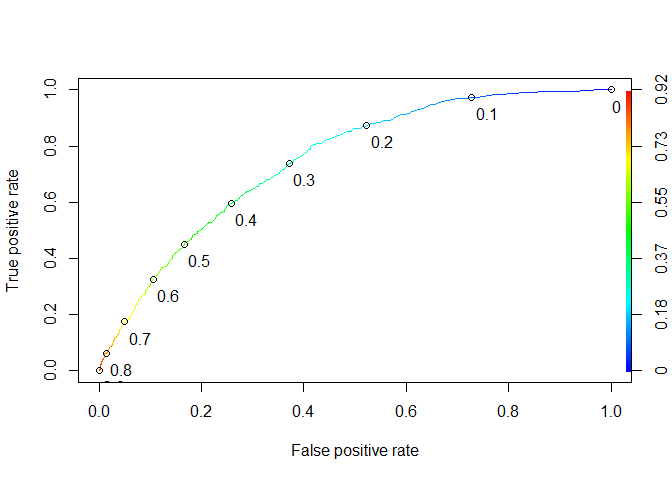
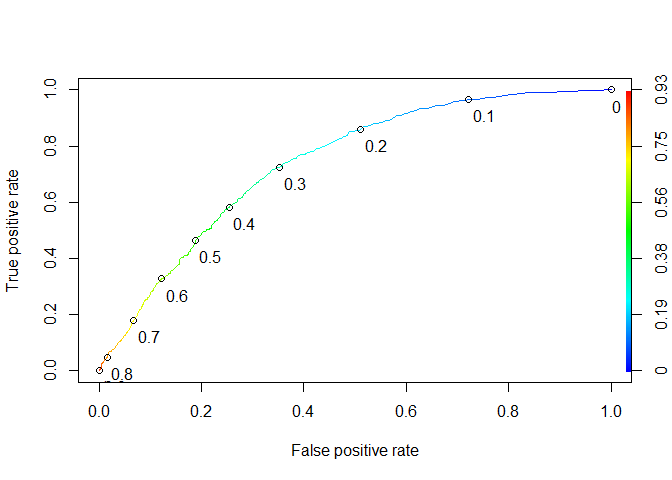
Including Conclusion

diff --git a/README.md b/README.md
@@ -412,8 +412,6 @@ LogisticModel.1 <- glm(sent_to_analysis ~ . -education_level -marital_status,
                        family = poisson(link = "log"),data = credit[i_calibration1, ])
 ```
 
-    ## Warning: glm.fit: fitted rates numerically 0 occurred
-
 Com isso, podemos avançar para ajustar o modelo que acabamos de criar para o conjunto de testes, i\_test1, e nos preparar para fazer nossa primeira previsão.
 
 ``` r
@@ -438,7 +436,7 @@ AUCLog1 <- performance(pred1, measure = 'auc')@y.values[[1]]
 AUCLog1
 ```
 
-    ## [1] 0.746522
+    ## [1] 0.7497481
 
 Esse não é um resultado ruim, mas vamos ver se podemos fazer melhor com um método diferente.
 
@@ -478,7 +476,7 @@ AUCTree <- performance(pred3, measure = 'auc')@y.values[[1]]
 AUCTree
 ```
 
-    ## [1] 0.720109
+    ## [1] 0.6980508
 
 O resultado foi pior do que o anterior. E ambos não são resultados satisfatórios, dada a complexidade do nosso modelo de árvore, então, novamente, temos que nos perguntar se não estamos melhor usando o modelo de Regressão Logística mais simples do primeiro modelo.
 
@@ -508,7 +506,7 @@ AUCRF <- performance(pred4, measure = 'auc')@y.values[[1]]
 AUCRF
 ```
 
-    ## [1] 0.7489434
+    ## [1] 0.7396471
 
 Com o esforço extra, ainda assim não obtemos um resultado um tanto melhorado. O modelo de Regressão logística é o melhor desempenho até o momento.
 
@@ -899,7 +897,7 @@ logLik(modelo.completo)
 logLik(LogisticModel.1)
 ```
 
-    ## 'log Lik.' -787.2288 (df=14)
+    ## 'log Lik.' -813.4712 (df=14)
 
 ``` r
 logLik(LogisticModel.3)
@@ -919,7 +917,7 @@ extractAIC(modelo.completo)
 extractAIC(LogisticModel.1)
 ```
 
-    ## [1]   14.000 1602.458
+    ## [1]   14.000 1654.942
 
 ``` r
 extractAIC(LogisticModel.3)
@@ -949,8 +947,8 @@ anova(LogisticModel.1,LogisticModel.3)
     ##     serasa_commercial_debts + serasa_protests + marital_status + 
     ##     monthly_payment + purpose + education_level
     ##   Resid. Df Resid. Dev Df Deviance
-    ## 1      1234     694.46            
-    ## 2      1234    1370.45  0  -675.99
+    ## 1      1234     732.94            
+    ## 2      1234    1370.45  0  -637.51
 
 Existem diferenças entre os modelos, então ficamos com aquele com mais parâmetros, o modelo 1, o mais complexo, não podemos abandonar ele pelo mais simples, ja que ele explica muita coisa que o modelo 2 mais simples não deu conta de explicar, mas não podemos esquecer que:
 
@@ -1131,15 +1129,15 @@ coefficients(LogisticModel.1) * 20/log(2)
 ```
 
     ##              (Intercept)                      age           monthly_income 
-    ##            -2.774151e+01             1.494552e+01            -1.894345e+02 
+    ##               -37.006431                26.685252              -248.968860 
     ##         collateral_value              loan_amount   collateral_debt_amount 
-    ##            -4.699841e+03             5.883479e+00            -8.627714e+04 
+    ##                 4.105753                32.211006            -59920.312608 
     ##       serasa_restriction serasa_dishonored_checks     serasa_expired_debts 
-    ##            -3.823592e+01            -4.079574e+02            -3.336805e+02 
+    ##                -9.945645              -416.592456              -381.828218 
     ##     serasa_banking_debts  serasa_commercial_debts          serasa_protests 
-    ##            -5.952632e+01             6.049834e+00             1.027800e+01 
+    ##               -34.925778               -23.552788               -19.620253 
     ##          monthly_payment                  purpose 
-    ##             1.212949e+02             7.733364e-01
+    ##                87.489188                 3.887708
 
 Uma nova abordagem de um novo modelo
 ------------------------------------
@@ -1292,12 +1290,6 @@ Conclusão
 ---------
 
 Usamos quatro modelos com os seguintes desempenhos:
-
-``` r
-library(knitr)
-myTable <- data.frame(Modelo = c("Regressão Logística", "Árvore de Regressão", "Floresta aleatória", "Comparação GLM x RF", "One level decision trees"), Desemepmnho = c(0.75,0.71, 0.74, 0.65, 0.98))
-kable(myTable)
-```
 
 | Modelo                   |  Desemepmnho|
 |:-------------------------|------------:|
